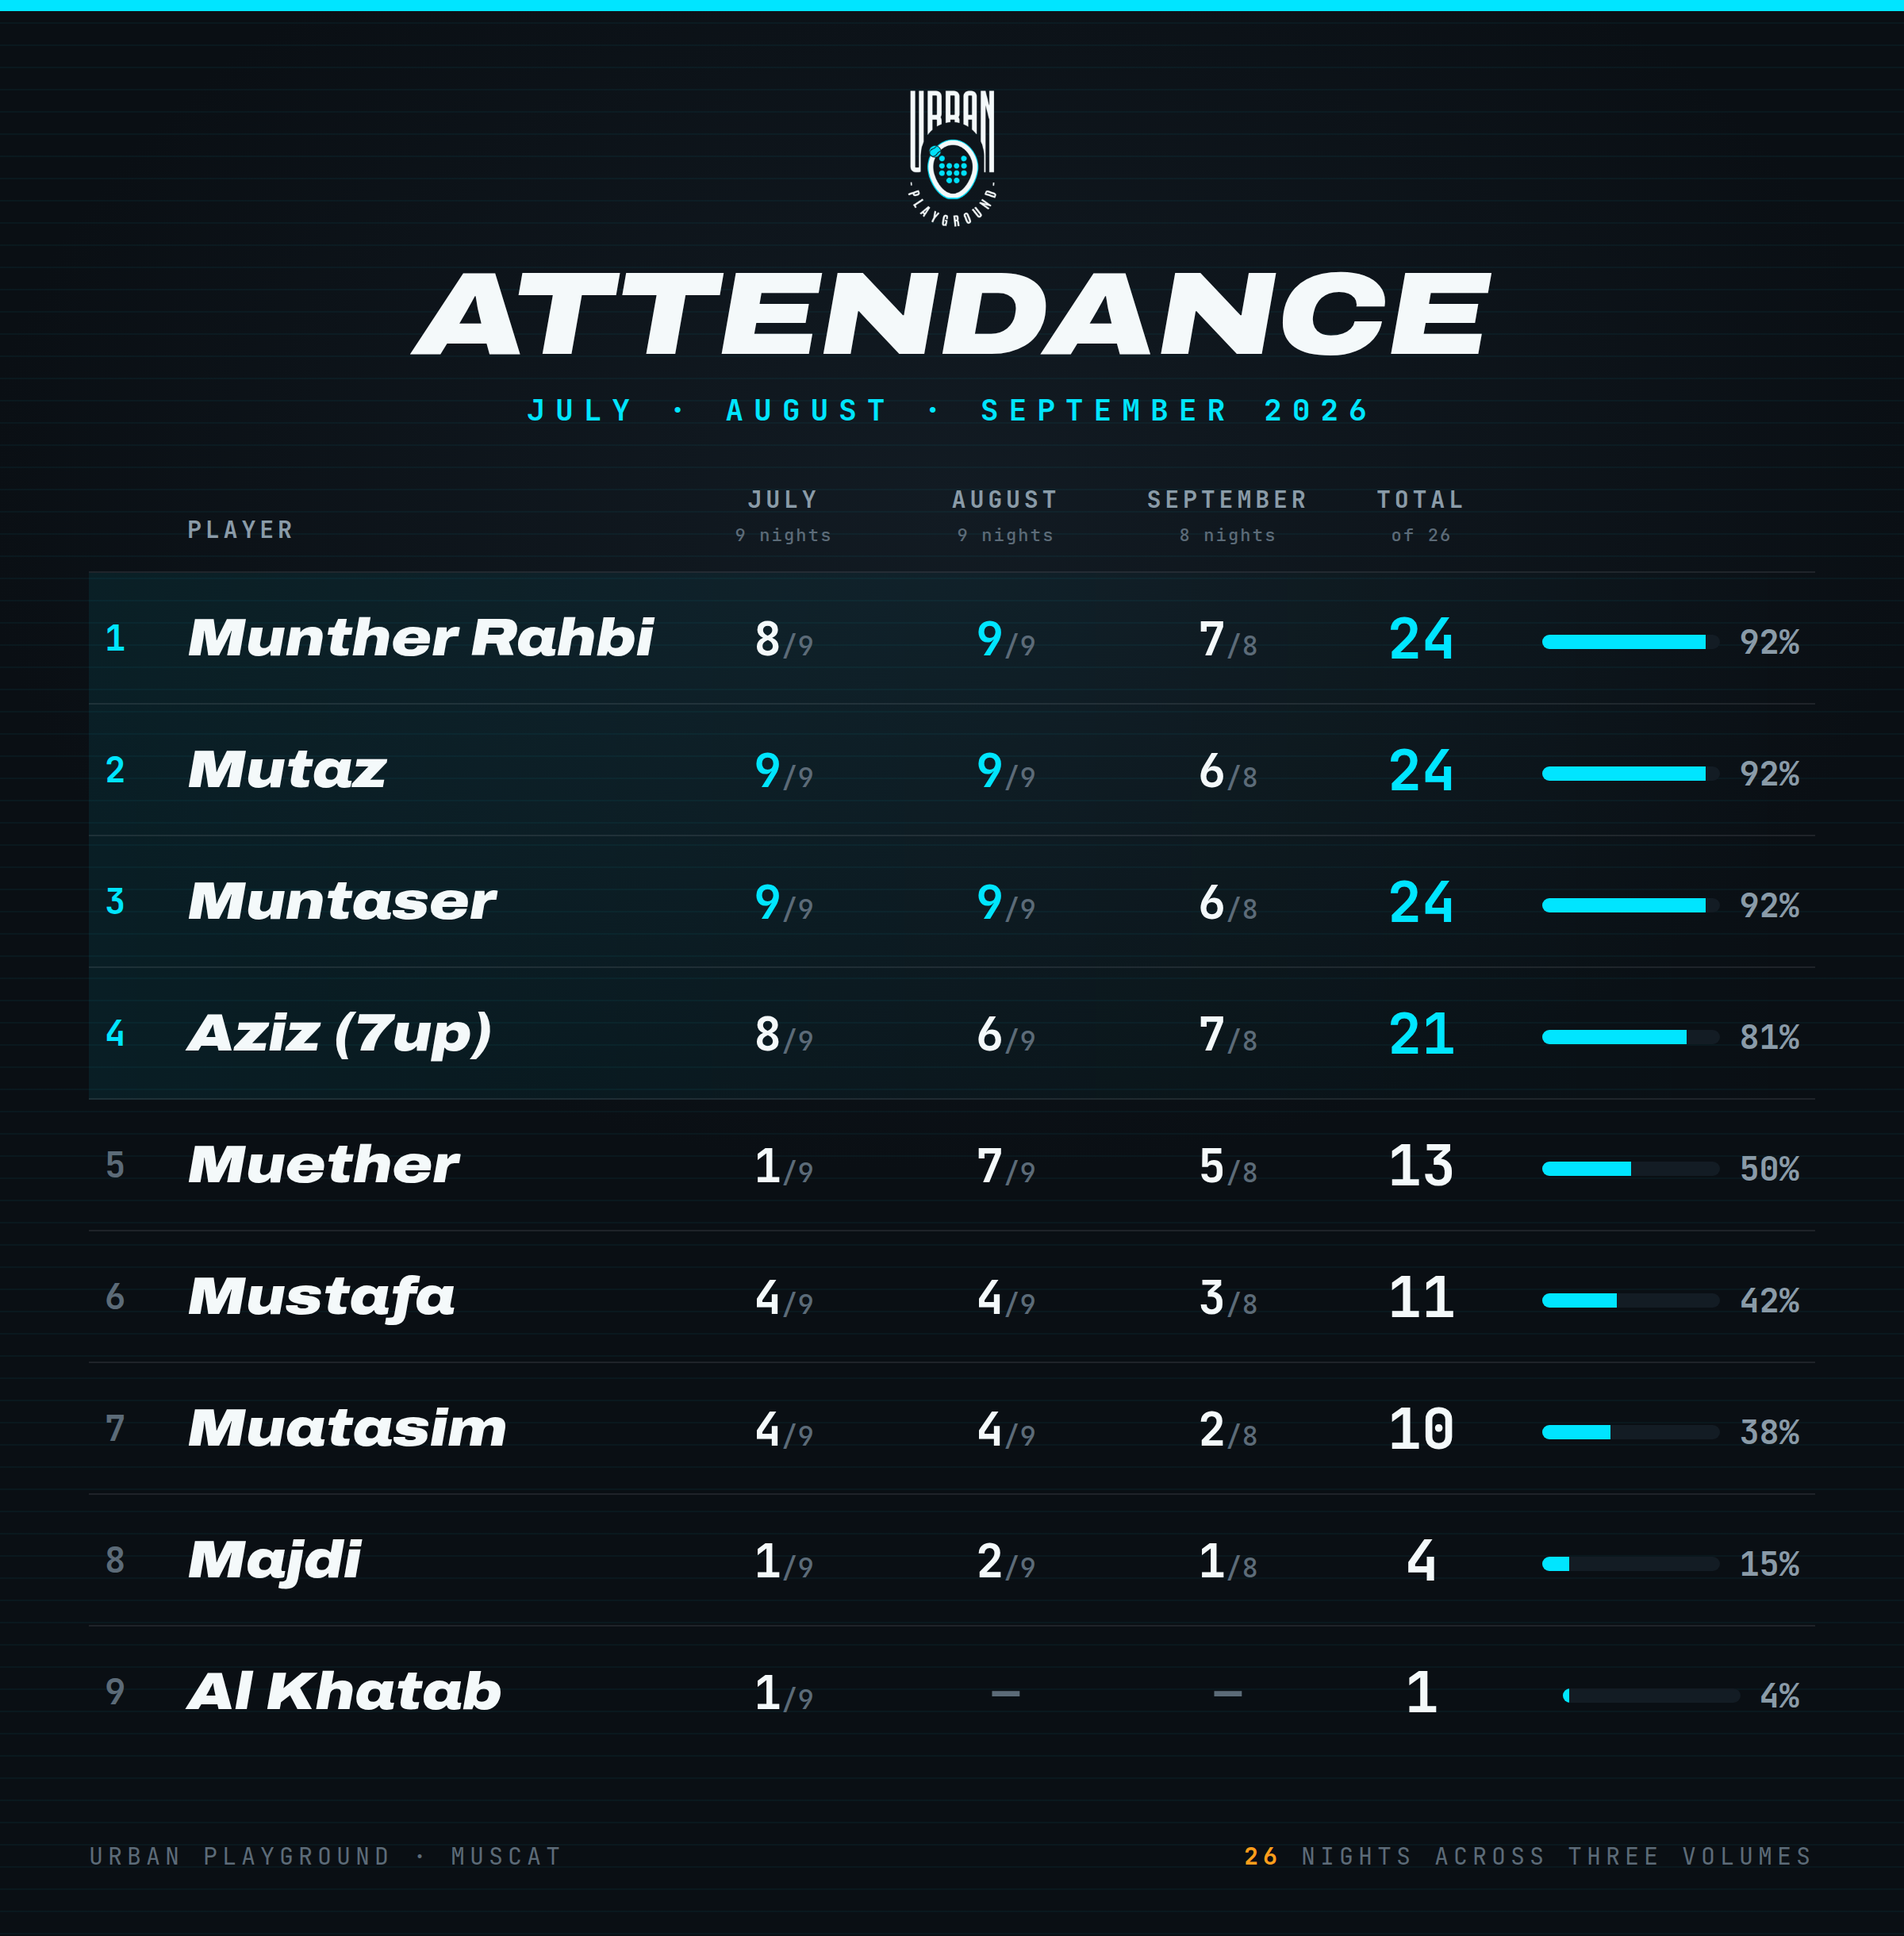
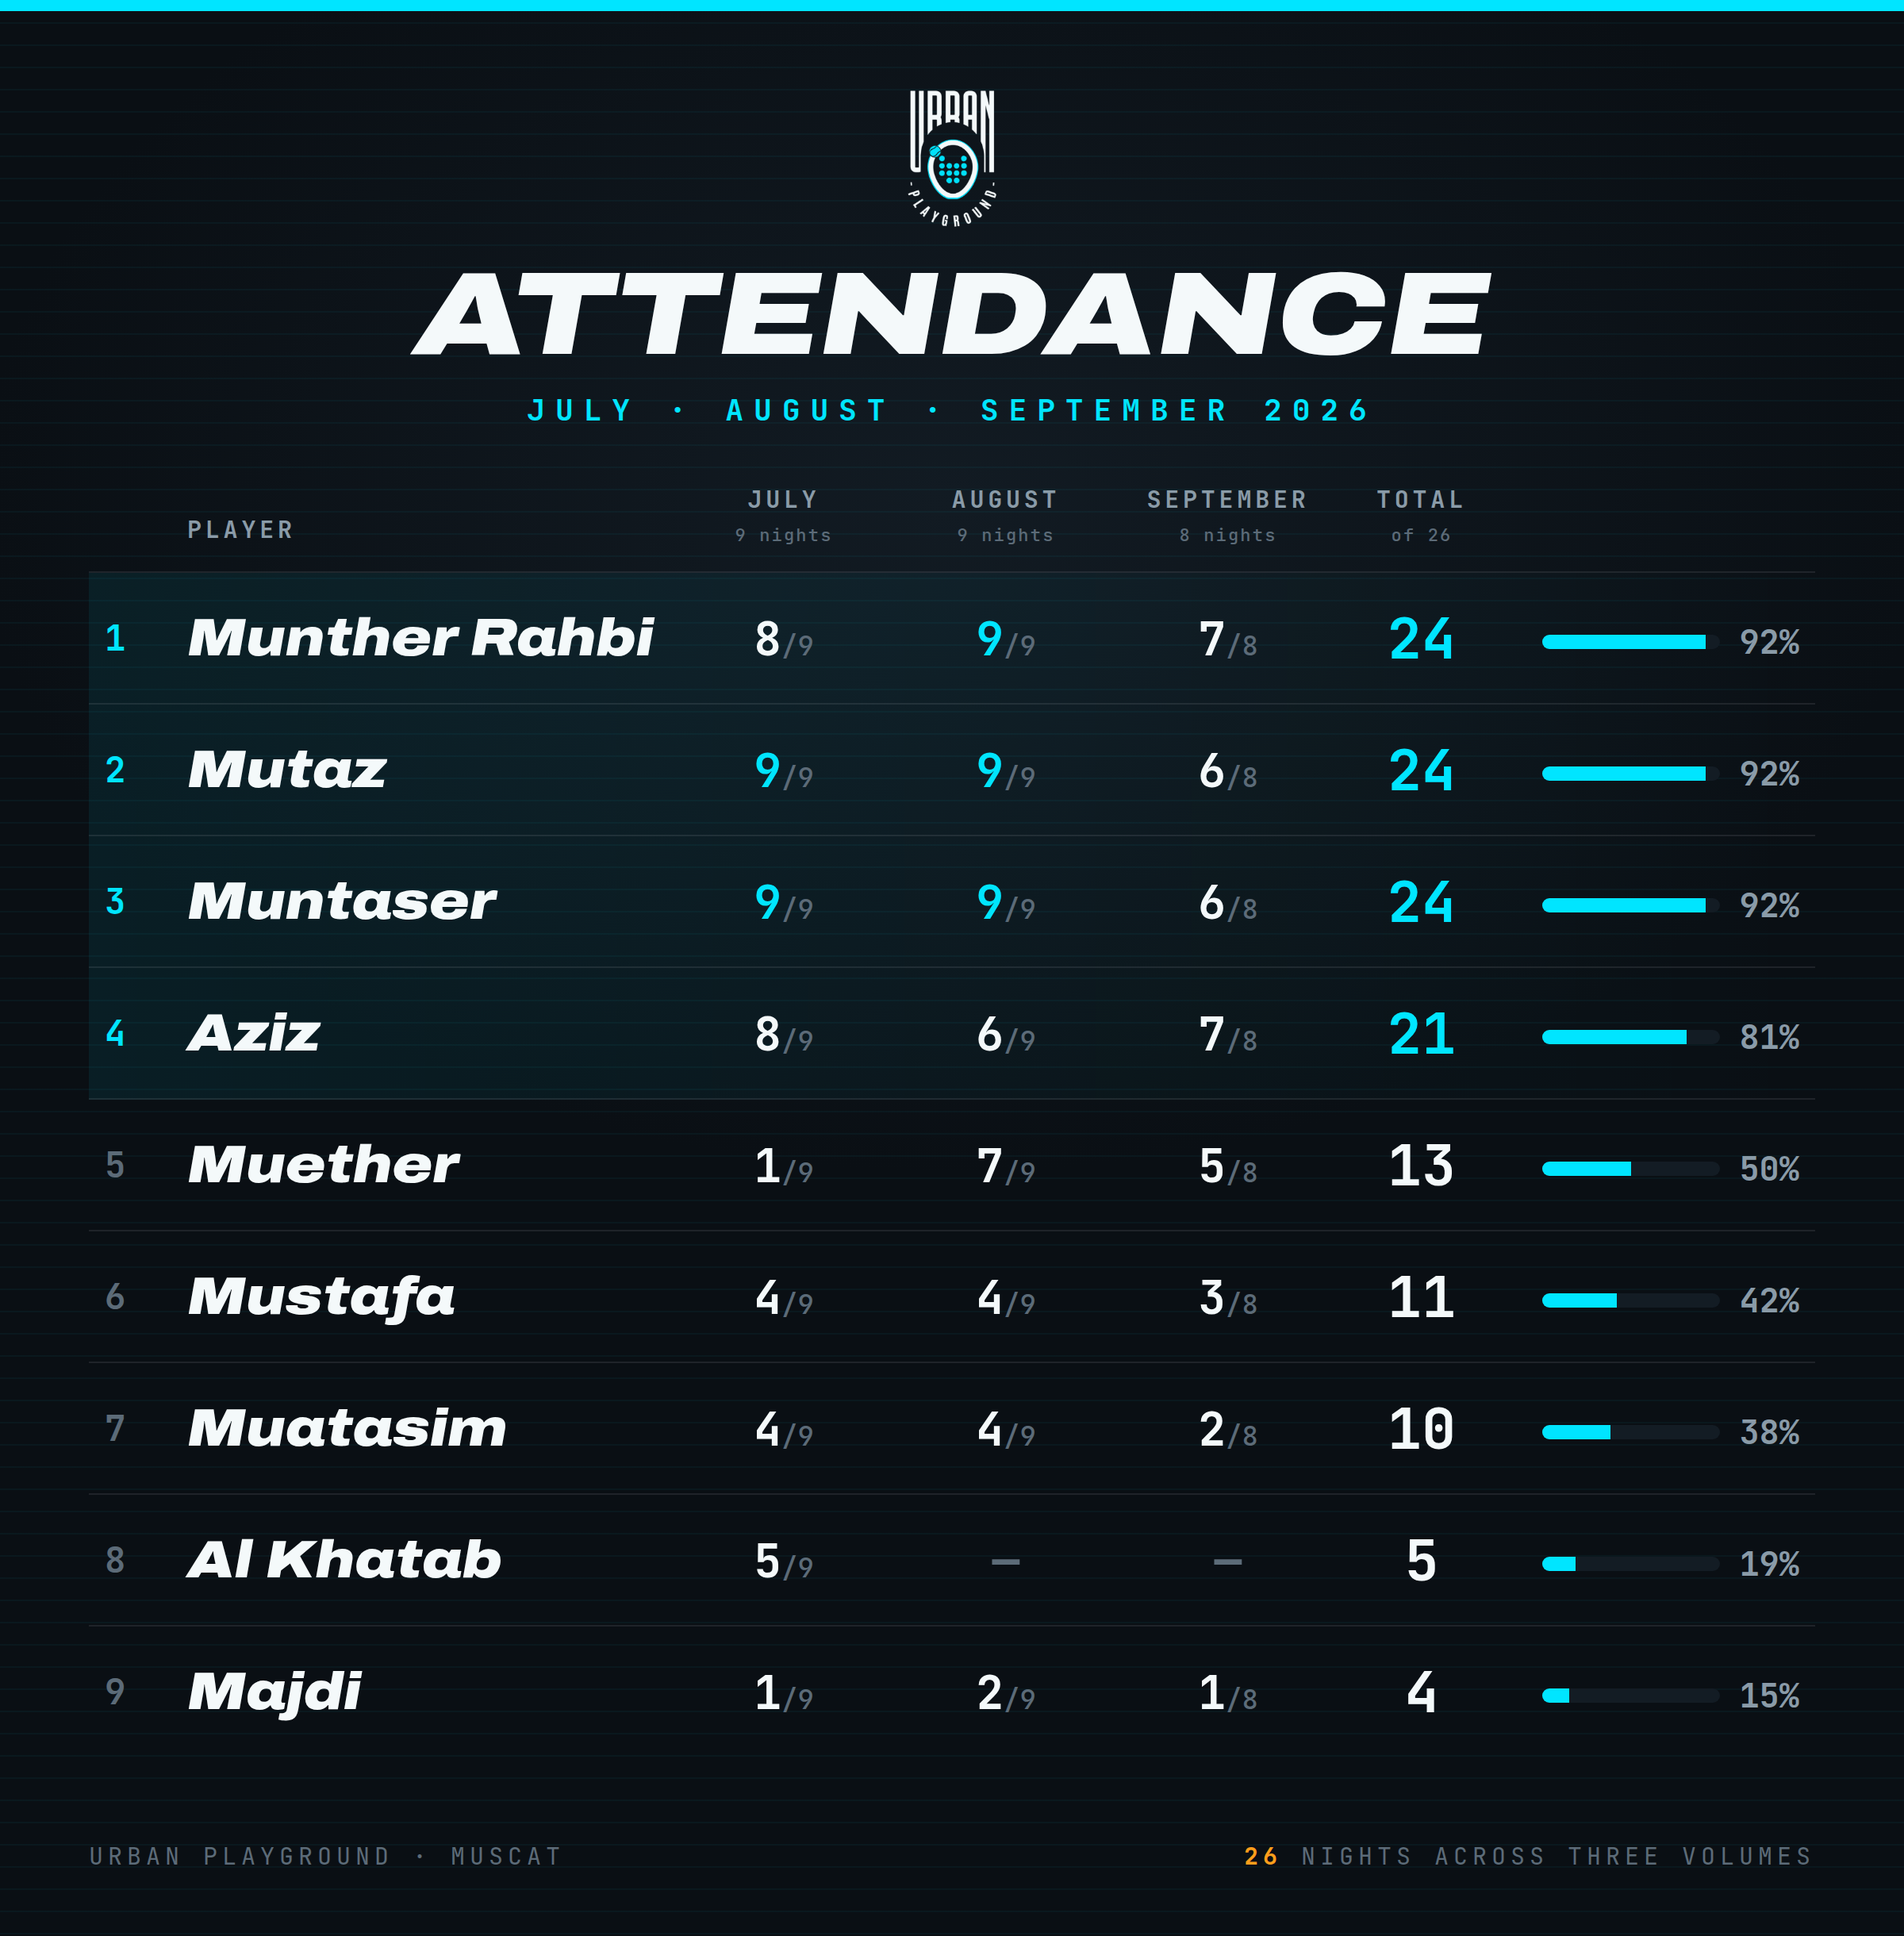
Merge KB7 into Al Khatab and drop the 7up qualifier from Aziz
KB7 is Al Khatab's other registration -- four more July nights that were
sitting under a handle nobody would read as him. Al Khatab moves 1 -> 5 and
past Majdi.

Claude-Session: https://claude.ai/code/session_01ApGxEQHux35SFcgLtzTmdN

diff --git a/brand/reports/attendance-jul-sep.html b/brand/reports/attendance-jul-sep.html
@@ -198,7 +198,7 @@ footer b{color:#FF9E1B;font-weight:700}
 <table>
   <thead><tr><th></th><th>PLAYER</th><th>JULY<span class="sub">9 nights</span></th><th>AUGUST<span class="sub">9 nights</span></th><th>SEPTEMBER<span class="sub">8 nights</span></th>
     <th>TOTAL<span class="sub">of 26</span></th><th></th></tr></thead>
-  <tbody><tr class="top"><td class="rk">1</td><td class="nm">Munther Rahbi</td><td class="num ">8<span class='of'>/9</span></td><td class="num full">9<span class='of'>/9</span></td><td class="num ">7<span class='of'>/8</span></td><td class="tot">24</td><td class="pc"><div class="bar"><i style="width:92%"></i></div><span>92%</span></td></tr><tr class="top"><td class="rk">2</td><td class="nm">Mutaz</td><td class="num full">9<span class='of'>/9</span></td><td class="num full">9<span class='of'>/9</span></td><td class="num ">6<span class='of'>/8</span></td><td class="tot">24</td><td class="pc"><div class="bar"><i style="width:92%"></i></div><span>92%</span></td></tr><tr class="top"><td class="rk">3</td><td class="nm">Muntaser</td><td class="num full">9<span class='of'>/9</span></td><td class="num full">9<span class='of'>/9</span></td><td class="num ">6<span class='of'>/8</span></td><td class="tot">24</td><td class="pc"><div class="bar"><i style="width:92%"></i></div><span>92%</span></td></tr><tr class="top"><td class="rk">4</td><td class="nm">Aziz (7up)</td><td class="num ">8<span class='of'>/9</span></td><td class="num ">6<span class='of'>/9</span></td><td class="num ">7<span class='of'>/8</span></td><td class="tot">21</td><td class="pc"><div class="bar"><i style="width:81%"></i></div><span>81%</span></td></tr><tr class=""><td class="rk">5</td><td class="nm">Muether</td><td class="num ">1<span class='of'>/9</span></td><td class="num ">7<span class='of'>/9</span></td><td class="num ">5<span class='of'>/8</span></td><td class="tot">13</td><td class="pc"><div class="bar"><i style="width:50%"></i></div><span>50%</span></td></tr><tr class=""><td class="rk">6</td><td class="nm">Mustafa</td><td class="num ">4<span class='of'>/9</span></td><td class="num ">4<span class='of'>/9</span></td><td class="num ">3<span class='of'>/8</span></td><td class="tot">11</td><td class="pc"><div class="bar"><i style="width:42%"></i></div><span>42%</span></td></tr><tr class=""><td class="rk">7</td><td class="nm">Muatasim</td><td class="num ">4<span class='of'>/9</span></td><td class="num ">4<span class='of'>/9</span></td><td class="num ">2<span class='of'>/8</span></td><td class="tot">10</td><td class="pc"><div class="bar"><i style="width:38%"></i></div><span>38%</span></td></tr><tr class=""><td class="rk">8</td><td class="nm">Majdi</td><td class="num ">1<span class='of'>/9</span></td><td class="num ">2<span class='of'>/9</span></td><td class="num ">1<span class='of'>/8</span></td><td class="tot">4</td><td class="pc"><div class="bar"><i style="width:15%"></i></div><span>15%</span></td></tr><tr class=""><td class="rk">9</td><td class="nm">Al Khatab</td><td class="num ">1<span class='of'>/9</span></td><td class="num zero">—</td><td class="num zero">—</td><td class="tot">1</td><td class="pc"><div class="bar"><i style="width:4%"></i></div><span>4%</span></td></tr></tbody>
+  <tbody><tr class="top"><td class="rk">1</td><td class="nm">Munther Rahbi</td><td class="num ">8<span class='of'>/9</span></td><td class="num full">9<span class='of'>/9</span></td><td class="num ">7<span class='of'>/8</span></td><td class="tot">24</td><td class="pc"><div class="bar"><i style="width:92%"></i></div><span>92%</span></td></tr><tr class="top"><td class="rk">2</td><td class="nm">Mutaz</td><td class="num full">9<span class='of'>/9</span></td><td class="num full">9<span class='of'>/9</span></td><td class="num ">6<span class='of'>/8</span></td><td class="tot">24</td><td class="pc"><div class="bar"><i style="width:92%"></i></div><span>92%</span></td></tr><tr class="top"><td class="rk">3</td><td class="nm">Muntaser</td><td class="num full">9<span class='of'>/9</span></td><td class="num full">9<span class='of'>/9</span></td><td class="num ">6<span class='of'>/8</span></td><td class="tot">24</td><td class="pc"><div class="bar"><i style="width:92%"></i></div><span>92%</span></td></tr><tr class="top"><td class="rk">4</td><td class="nm">Aziz</td><td class="num ">8<span class='of'>/9</span></td><td class="num ">6<span class='of'>/9</span></td><td class="num ">7<span class='of'>/8</span></td><td class="tot">21</td><td class="pc"><div class="bar"><i style="width:81%"></i></div><span>81%</span></td></tr><tr class=""><td class="rk">5</td><td class="nm">Muether</td><td class="num ">1<span class='of'>/9</span></td><td class="num ">7<span class='of'>/9</span></td><td class="num ">5<span class='of'>/8</span></td><td class="tot">13</td><td class="pc"><div class="bar"><i style="width:50%"></i></div><span>50%</span></td></tr><tr class=""><td class="rk">6</td><td class="nm">Mustafa</td><td class="num ">4<span class='of'>/9</span></td><td class="num ">4<span class='of'>/9</span></td><td class="num ">3<span class='of'>/8</span></td><td class="tot">11</td><td class="pc"><div class="bar"><i style="width:42%"></i></div><span>42%</span></td></tr><tr class=""><td class="rk">7</td><td class="nm">Muatasim</td><td class="num ">4<span class='of'>/9</span></td><td class="num ">4<span class='of'>/9</span></td><td class="num ">2<span class='of'>/8</span></td><td class="tot">10</td><td class="pc"><div class="bar"><i style="width:38%"></i></div><span>38%</span></td></tr><tr class=""><td class="rk">8</td><td class="nm">Al Khatab</td><td class="num ">5<span class='of'>/9</span></td><td class="num zero">—</td><td class="num zero">—</td><td class="tot">5</td><td class="pc"><div class="bar"><i style="width:19%"></i></div><span>19%</span></td></tr><tr class=""><td class="rk">9</td><td class="nm">Majdi</td><td class="num ">1<span class='of'>/9</span></td><td class="num ">2<span class='of'>/9</span></td><td class="num ">1<span class='of'>/8</span></td><td class="tot">4</td><td class="pc"><div class="bar"><i style="width:15%"></i></div><span>15%</span></td></tr></tbody>
 </table>
 <footer><span>URBAN PLAYGROUND &middot; MUSCAT</span>
   <span><b>26</b> NIGHTS ACROSS THREE VOLUMES</span></footer>

diff --git a/build-attendance-table.py b/build-attendance-table.py
@@ -24,17 +24,19 @@ VOLS = [("jh", "JULY", "July Heat"),
 
 # Stored names per person. Several are registered twice — merged deliberately,
 # because otherwise one human's record splits in half and both halves look thin.
-# "Aziz" is 7up: the owner confirmed it, and there is no player stored as Aziz.
+# "Aziz" plays as 7up and "Al Khatab" also as KB7 — both confirmed by the owner.
+# A night where two of one person's handles both appear still counts once, since
+# the count is over sessions, not over registrations.
 GROUPS = {
     "Munther Rahbi": ["Munther Rahbi"],
     "Mutaz":         ["Mutaz Zadjali"],
     "Muntaser":      ["Muntaser Hasni"],
-    "Aziz (7up)":    ["7up"],
+    "Aziz":          ["7up"],
     "Muether":       ["Muether Wahaibi"],
     "Mustafa":       ["Mustafa"],
     "Muatasim":      ["Muatasim Sabri", "Muatasim"],
     "Majdi":         ["Majdi"],
-    "Al Khatab":     ["AL khatab"],
+    "Al Khatab":     ["AL khatab", "KB7"],
 }
 
 INK   = "#0A0F14"
